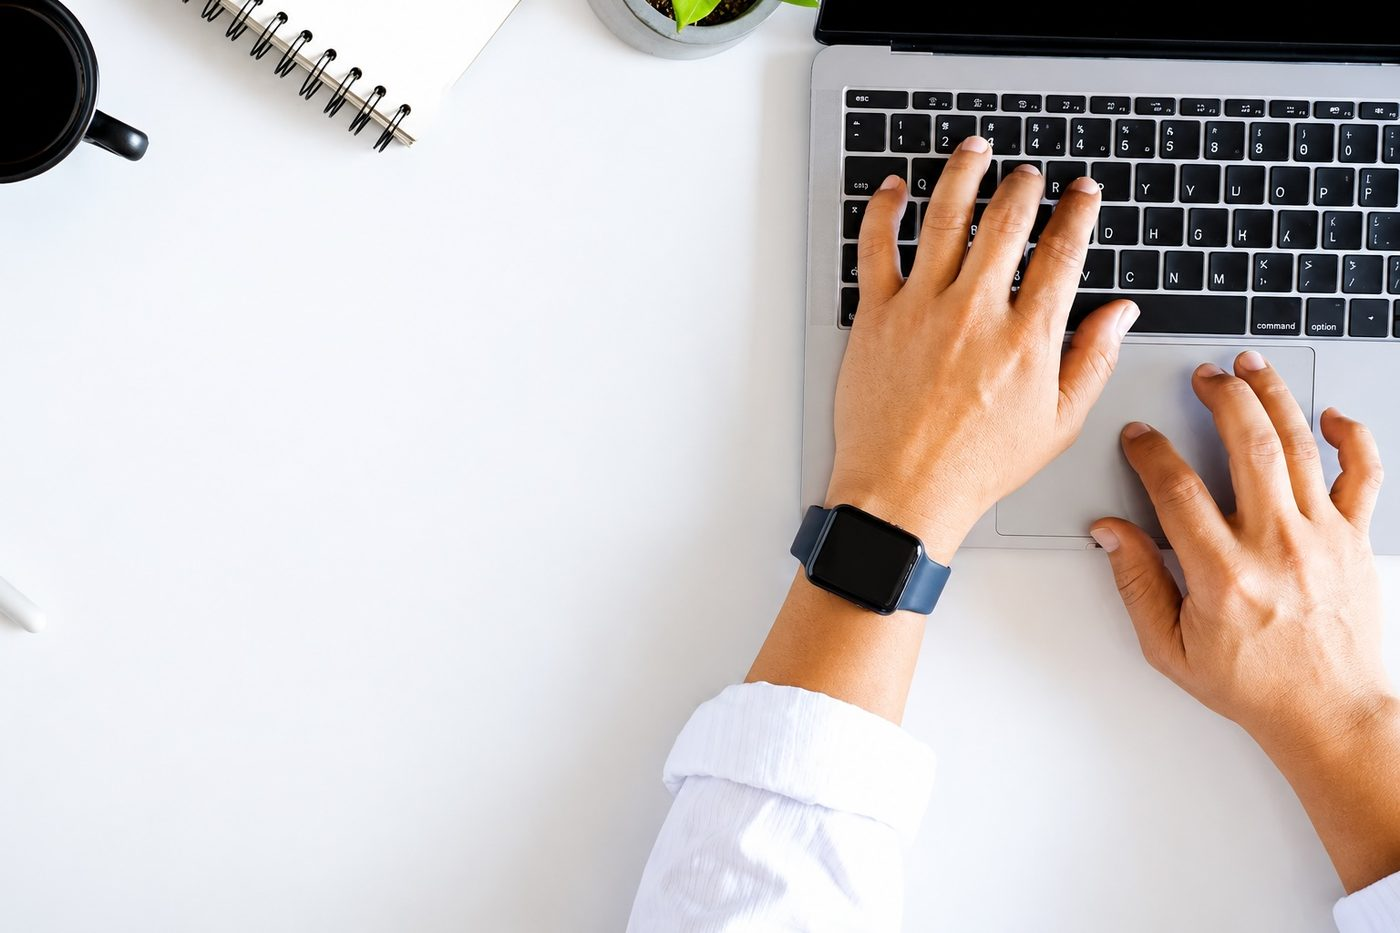
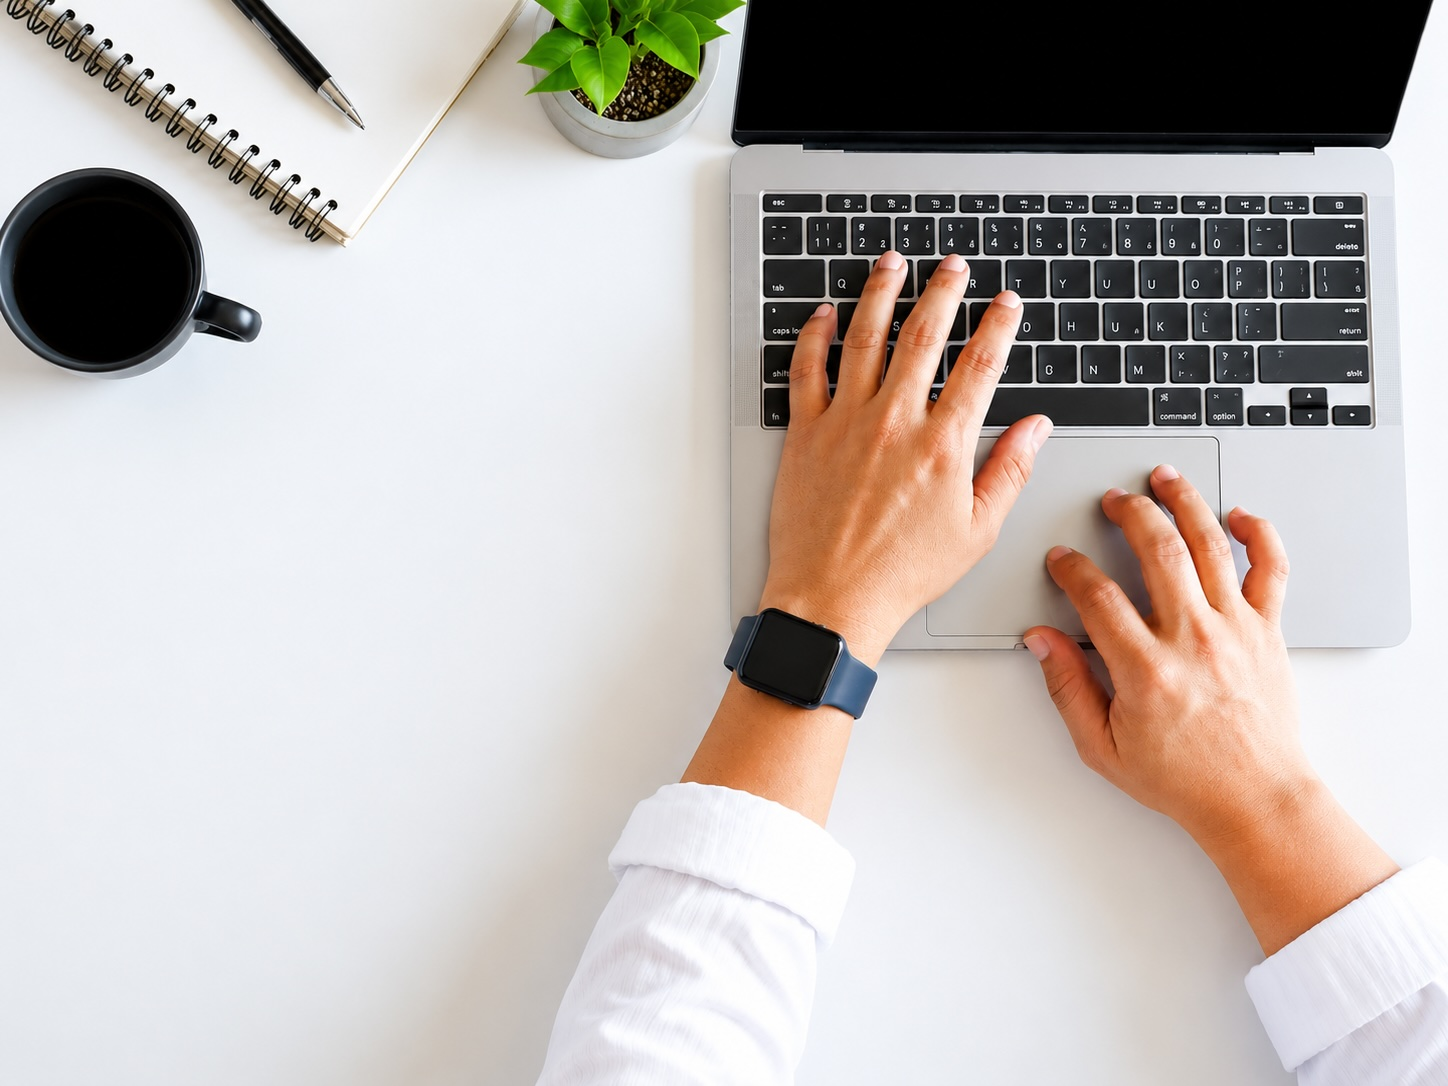
背景画像を4:3にリサイズ・CSS調整

diff --git a/style.css b/style.css
@@ -91,8 +91,13 @@ button {
 
 .cover-hero {
   border-radius: 12px;
-  padding: 64px 24px;
+  padding: 24px;
   margin-bottom: 40px;
+  aspect-ratio: 4 / 3;
+  overflow: hidden;
+  display: flex;
+  flex-direction: column;
+  justify-content: center;
   background: #ffffff url('images/cover-bg.jpg') center / cover no-repeat;
 }
 
@@ -438,8 +443,8 @@ button {
   .cover-title { font-size: 28px; }
   .reader-title { font-size: 22px; }
   .reader-body { font-size: 16px; }
-  .cover-hero { padding: 48px 20px; }
-  .auth-title-area { padding: 36px 20px; }
+  .cover-hero { padding: 20px; }
+  .auth-title-area { padding: 20px; }
 }
 
 /* ═══════════════════════════════════════════
@@ -468,7 +473,12 @@ button {
   text-align: center;
   margin-bottom: 32px;
   border-radius: 12px;
-  padding: 48px 24px;
+  padding: 24px;
+  aspect-ratio: 4 / 3;
+  overflow: hidden;
+  display: flex;
+  flex-direction: column;
+  justify-content: center;
   background: #ffffff url('images/cover-bg.jpg') center / cover no-repeat;
 }
 